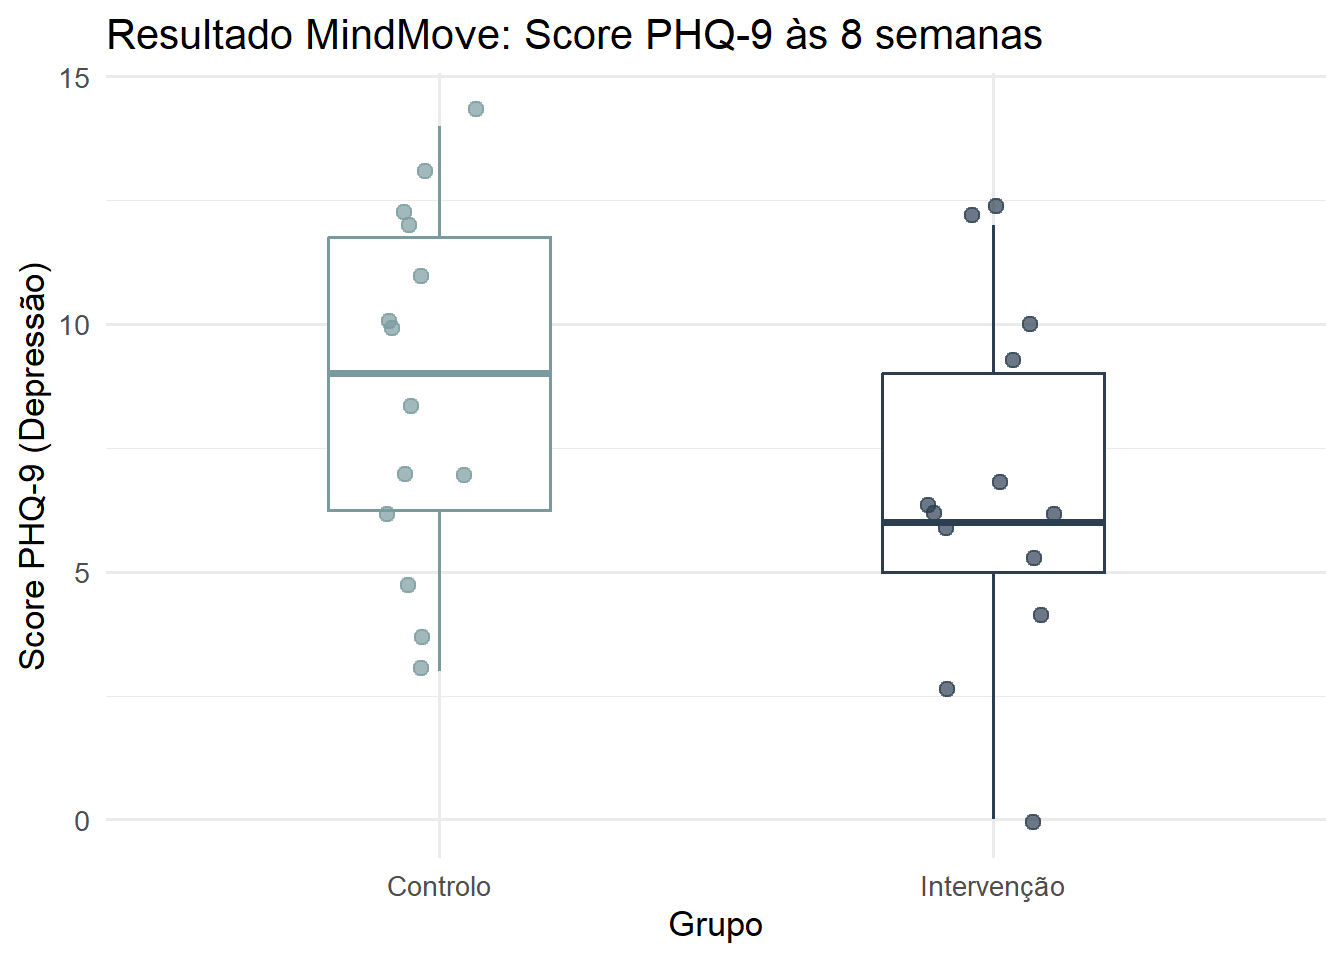
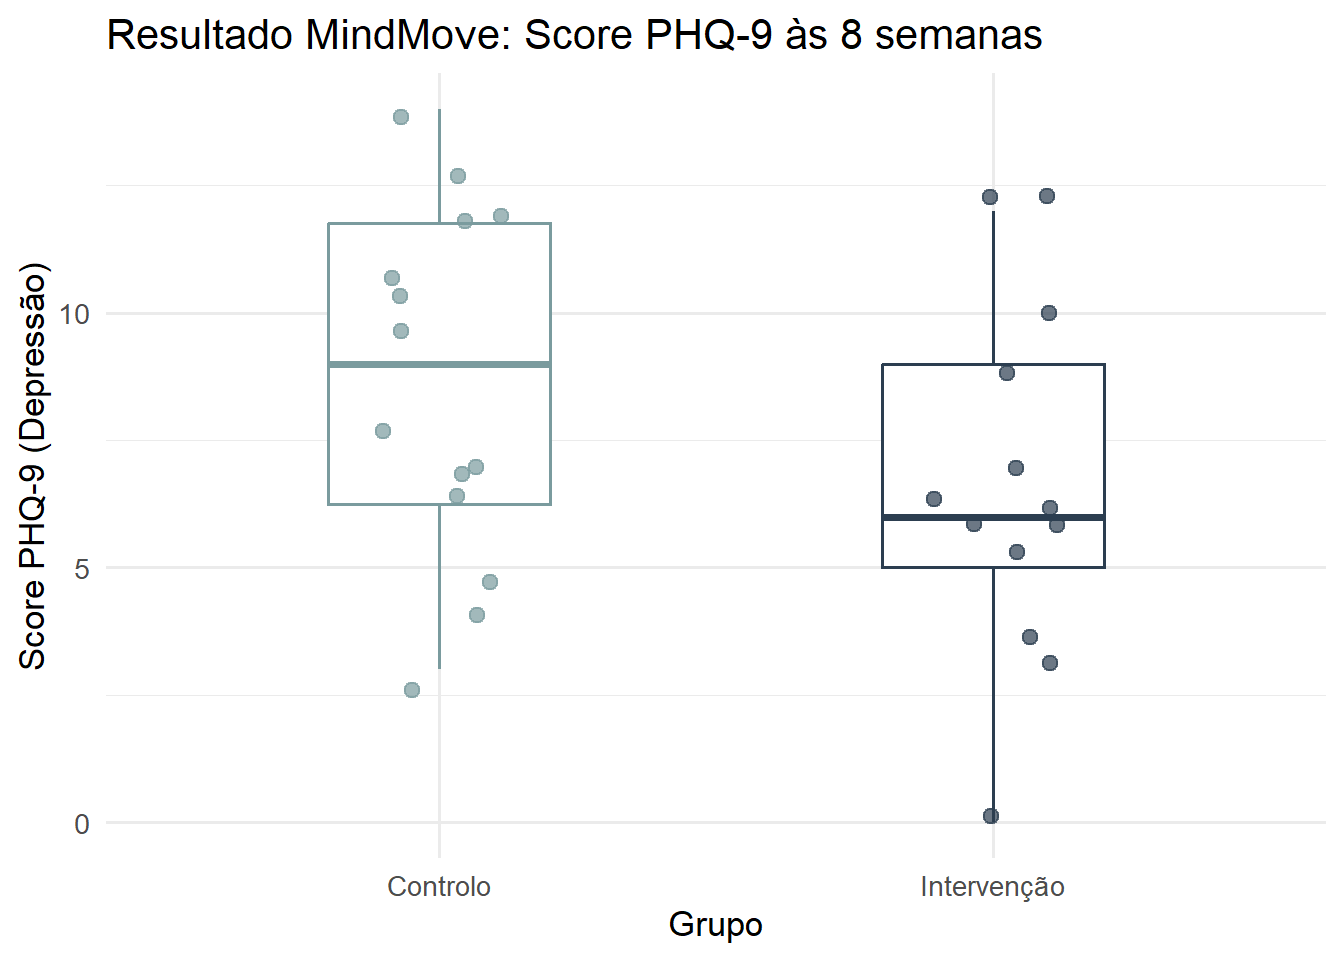
teste 2 no site

diff --git a/docs/resultados.html b/docs/resultados.html
@@ -173,23 +173,23 @@ ul.task-list li input[type="checkbox"] {
 <p>Abaixo apresentamos a caracterização sociodemográfica e clínica inicial dos participantes.</p>
 <div class="cell">
 <div class="cell-output-display">
-<div id="clelbsinku" style="padding-left:0px;padding-right:0px;padding-top:10px;padding-bottom:10px;overflow-x:auto;overflow-y:auto;width:auto;height:auto;">
-<style>#clelbsinku table {
+<div id="dwmuwwmlyn" style="padding-left:0px;padding-right:0px;padding-top:10px;padding-bottom:10px;overflow-x:auto;overflow-y:auto;width:auto;height:auto;">
+<style>#dwmuwwmlyn table {
   font-family: system-ui, 'Segoe UI', Roboto, Helvetica, Arial, sans-serif, 'Apple Color Emoji', 'Segoe UI Emoji', 'Segoe UI Symbol', 'Noto Color Emoji';
   -webkit-font-smoothing: antialiased;
   -moz-osx-font-smoothing: grayscale;
 }
 
-#clelbsinku thead, #clelbsinku tbody, #clelbsinku tfoot, #clelbsinku tr, #clelbsinku td, #clelbsinku th {
+#dwmuwwmlyn thead, #dwmuwwmlyn tbody, #dwmuwwmlyn tfoot, #dwmuwwmlyn tr, #dwmuwwmlyn td, #dwmuwwmlyn th {
   border-style: none;
 }
 
-#clelbsinku p {
+#dwmuwwmlyn p {
   margin: 0;
   padding: 0;
 }
 
-#clelbsinku .gt_table {
+#dwmuwwmlyn .gt_table {
   display: table;
   border-collapse: collapse;
   line-height: normal;
@@ -215,12 +215,12 @@ ul.task-list li input[type="checkbox"] {
   border-left-color: #D3D3D3;
 }
 
-#clelbsinku .gt_caption {
+#dwmuwwmlyn .gt_caption {
   padding-top: 4px;
   padding-bottom: 4px;
 }
 
-#clelbsinku .gt_title {
+#dwmuwwmlyn .gt_title {
   color: #333333;
   font-size: 125%;
   font-weight: initial;
@@ -232,7 +232,7 @@ ul.task-list li input[type="checkbox"] {
   border-bottom-width: 0;
 }
 
-#clelbsinku .gt_subtitle {
+#dwmuwwmlyn .gt_subtitle {
   color: #333333;
   font-size: 85%;
   font-weight: initial;
@@ -244,7 +244,7 @@ ul.task-list li input[type="checkbox"] {
   border-top-width: 0;
 }
 
-#clelbsinku .gt_heading {
+#dwmuwwmlyn .gt_heading {
   background-color: #FFFFFF;
   text-align: center;
   border-bottom-color: #FFFFFF;
@@ -256,13 +256,13 @@ ul.task-list li input[type="checkbox"] {
   border-right-color: #D3D3D3;
 }
 
-#clelbsinku .gt_bottom_border {
+#dwmuwwmlyn .gt_bottom_border {
   border-bottom-style: solid;
   border-bottom-width: 2px;
   border-bottom-color: #D3D3D3;
 }
 
-#clelbsinku .gt_col_headings {
+#dwmuwwmlyn .gt_col_headings {
   border-top-style: solid;
   border-top-width: 2px;
   border-top-color: #D3D3D3;
@@ -277,7 +277,7 @@ ul.task-list li input[type="checkbox"] {
   border-right-color: #D3D3D3;
 }
 
-#clelbsinku .gt_col_heading {
+#dwmuwwmlyn .gt_col_heading {
   color: #333333;
   background-color: #FFFFFF;
   font-size: 100%;
@@ -297,7 +297,7 @@ ul.task-list li input[type="checkbox"] {
   overflow-x: hidden;
 }
 
-#clelbsinku .gt_column_spanner_outer {
+#dwmuwwmlyn .gt_column_spanner_outer {
   color: #333333;
   background-color: #FFFFFF;
   font-size: 100%;
@@ -309,15 +309,15 @@ ul.task-list li input[type="checkbox"] {
   padding-right: 4px;
 }
 
-#clelbsinku .gt_column_spanner_outer:first-child {
+#dwmuwwmlyn .gt_column_spanner_outer:first-child {
   padding-left: 0;
 }
 
-#clelbsinku .gt_column_spanner_outer:last-child {
+#dwmuwwmlyn .gt_column_spanner_outer:last-child {
   padding-right: 0;
 }
 
-#clelbsinku .gt_column_spanner {
+#dwmuwwmlyn .gt_column_spanner {
   border-bottom-style: solid;
   border-bottom-width: 2px;
   border-bottom-color: #D3D3D3;
@@ -329,11 +329,11 @@ ul.task-list li input[type="checkbox"] {
   width: 100%;
 }
 
-#clelbsinku .gt_spanner_row {
+#dwmuwwmlyn .gt_spanner_row {
   border-bottom-style: hidden;
 }
 
-#clelbsinku .gt_group_heading {
+#dwmuwwmlyn .gt_group_heading {
   padding-top: 8px;
   padding-bottom: 8px;
   padding-left: 5px;
@@ -359,7 +359,7 @@ ul.task-list li input[type="checkbox"] {
   text-align: left;
 }
 
-#clelbsinku .gt_empty_group_heading {
+#dwmuwwmlyn .gt_empty_group_heading {
   padding: 0.5px;
   color: #333333;
   background-color: #FFFFFF;
@@ -374,15 +374,15 @@ ul.task-list li input[type="checkbox"] {
   vertical-align: middle;
 }
 
-#clelbsinku .gt_from_md > :first-child {
+#dwmuwwmlyn .gt_from_md > :first-child {
   margin-top: 0;
 }
 
-#clelbsinku .gt_from_md > :last-child {
+#dwmuwwmlyn .gt_from_md > :last-child {
   margin-bottom: 0;
 }
 
-#clelbsinku .gt_row {
+#dwmuwwmlyn .gt_row {
   padding-top: 8px;
   padding-bottom: 8px;
   padding-left: 5px;
@@ -401,7 +401,7 @@ ul.task-list li input[type="checkbox"] {
   overflow-x: hidden;
 }
 
-#clelbsinku .gt_stub {
+#dwmuwwmlyn .gt_stub {
   color: #333333;
   background-color: #FFFFFF;
   font-size: 100%;
@@ -414,7 +414,7 @@ ul.task-list li input[type="checkbox"] {
   padding-right: 5px;
 }
 
-#clelbsinku .gt_stub_row_group {
+#dwmuwwmlyn .gt_stub_row_group {
   color: #333333;
   background-color: #FFFFFF;
   font-size: 100%;
@@ -428,15 +428,15 @@ ul.task-list li input[type="checkbox"] {
   vertical-align: top;
 }
 
-#clelbsinku .gt_row_group_first td {
+#dwmuwwmlyn .gt_row_group_first td {
   border-top-width: 2px;
 }
 
-#clelbsinku .gt_row_group_first th {
+#dwmuwwmlyn .gt_row_group_first th {
   border-top-width: 2px;
 }
 
-#clelbsinku .gt_summary_row {
+#dwmuwwmlyn .gt_summary_row {
   color: #333333;
   background-color: #FFFFFF;
   text-transform: inherit;
@@ -446,16 +446,16 @@ ul.task-list li input[type="checkbox"] {
   padding-right: 5px;
 }
 
-#clelbsinku .gt_first_summary_row {
+#dwmuwwmlyn .gt_first_summary_row {
   border-top-style: solid;
   border-top-color: #D3D3D3;
 }
 
-#clelbsinku .gt_first_summary_row.thick {
+#dwmuwwmlyn .gt_first_summary_row.thick {
   border-top-width: 2px;
 }
 
-#clelbsinku .gt_last_summary_row {
+#dwmuwwmlyn .gt_last_summary_row {
   padding-top: 8px;
   padding-bottom: 8px;
   padding-left: 5px;
@@ -465,7 +465,7 @@ ul.task-list li input[type="checkbox"] {
   border-bottom-color: #D3D3D3;
 }
 
-#clelbsinku .gt_grand_summary_row {
+#dwmuwwmlyn .gt_grand_summary_row {
   color: #333333;
   background-color: #FFFFFF;
   text-transform: inherit;
@@ -475,7 +475,7 @@ ul.task-list li input[type="checkbox"] {
   padding-right: 5px;
 }
 
-#clelbsinku .gt_first_grand_summary_row {
+#dwmuwwmlyn .gt_first_grand_summary_row {
   padding-top: 8px;
   padding-bottom: 8px;
   padding-left: 5px;
@@ -485,7 +485,7 @@ ul.task-list li input[type="checkbox"] {
   border-top-color: #D3D3D3;
 }
 
-#clelbsinku .gt_last_grand_summary_row_top {
+#dwmuwwmlyn .gt_last_grand_summary_row_top {
   padding-top: 8px;
   padding-bottom: 8px;
   padding-left: 5px;
@@ -495,11 +495,11 @@ ul.task-list li input[type="checkbox"] {
   border-bottom-color: #D3D3D3;
 }
 
-#clelbsinku .gt_striped {
+#dwmuwwmlyn .gt_striped {
   background-color: rgba(128, 128, 128, 0.05);
 }
 
-#clelbsinku .gt_table_body {
+#dwmuwwmlyn .gt_table_body {
   border-top-style: solid;
   border-top-width: 2px;
   border-top-color: #D3D3D3;
@@ -508,7 +508,7 @@ ul.task-list li input[type="checkbox"] {
   border-bottom-color: #D3D3D3;
 }
 
-#clelbsinku .gt_footnotes {
+#dwmuwwmlyn .gt_footnotes {
   color: #333333;
   background-color: #FFFFFF;
   border-bottom-style: none;
@@ -522,7 +522,7 @@ ul.task-list li input[type="checkbox"] {
   border-right-color: #D3D3D3;
 }
 
-#clelbsinku .gt_footnote {
+#dwmuwwmlyn .gt_footnote {
   margin: 0px;
   font-size: 90%;
   padding-top: 4px;
@@ -531,7 +531,7 @@ ul.task-list li input[type="checkbox"] {
   padding-right: 5px;
 }
 
-#clelbsinku .gt_sourcenotes {
+#dwmuwwmlyn .gt_sourcenotes {
   color: #333333;
   background-color: #FFFFFF;
   border-bottom-style: none;
@@ -545,7 +545,7 @@ ul.task-list li input[type="checkbox"] {
   border-right-color: #D3D3D3;
 }
 
-#clelbsinku .gt_sourcenote {
+#dwmuwwmlyn .gt_sourcenote {
   font-size: 90%;
   padding-top: 4px;
   padding-bottom: 4px;
@@ -553,72 +553,72 @@ ul.task-list li input[type="checkbox"] {
   padding-right: 5px;
 }
 
-#clelbsinku .gt_left {
+#dwmuwwmlyn .gt_left {
   text-align: left;
 }
 
-#clelbsinku .gt_center {
+#dwmuwwmlyn .gt_center {
   text-align: center;
 }
 
-#clelbsinku .gt_right {
+#dwmuwwmlyn .gt_right {
   text-align: right;
   font-variant-numeric: tabular-nums;
 }
 
-#clelbsinku .gt_font_normal {
+#dwmuwwmlyn .gt_font_normal {
   font-weight: normal;
 }
 
-#clelbsinku .gt_font_bold {
+#dwmuwwmlyn .gt_font_bold {
   font-weight: bold;
 }
 
-#clelbsinku .gt_font_italic {
+#dwmuwwmlyn .gt_font_italic {
   font-style: italic;
 }
 
-#clelbsinku .gt_super {
+#dwmuwwmlyn .gt_super {
   font-size: 65%;
 }
 
-#clelbsinku .gt_footnote_marks {
+#dwmuwwmlyn .gt_footnote_marks {
   font-size: 75%;
   vertical-align: 0.4em;
   position: initial;
 }
 
-#clelbsinku .gt_asterisk {
+#dwmuwwmlyn .gt_asterisk {
   font-size: 100%;
   vertical-align: 0;
 }
 
-#clelbsinku .gt_indent_1 {
+#dwmuwwmlyn .gt_indent_1 {
   text-indent: 5px;
 }
 
-#clelbsinku .gt_indent_2 {
+#dwmuwwmlyn .gt_indent_2 {
   text-indent: 10px;
 }
 
-#clelbsinku .gt_indent_3 {
+#dwmuwwmlyn .gt_indent_3 {
   text-indent: 15px;
 }
 
-#clelbsinku .gt_indent_4 {
+#dwmuwwmlyn .gt_indent_4 {
   text-indent: 20px;
 }
 
-#clelbsinku .gt_indent_5 {
+#dwmuwwmlyn .gt_indent_5 {
   text-indent: 25px;
 }
 
-#clelbsinku .katex-display {
+#dwmuwwmlyn .katex-display {
   display: inline-flex !important;
   margin-bottom: 0.75em !important;
 }
 
-#clelbsinku div.Reactable > div.rt-table > div.rt-thead > div.rt-tr.rt-tr-group-header > div.rt-th-group:after {
+#dwmuwwmlyn div.Reactable > div.rt-table > div.rt-thead > div.rt-tr.rt-tr-group-header > div.rt-th-group:after {
   height: 0px !important;
 }
 </style>